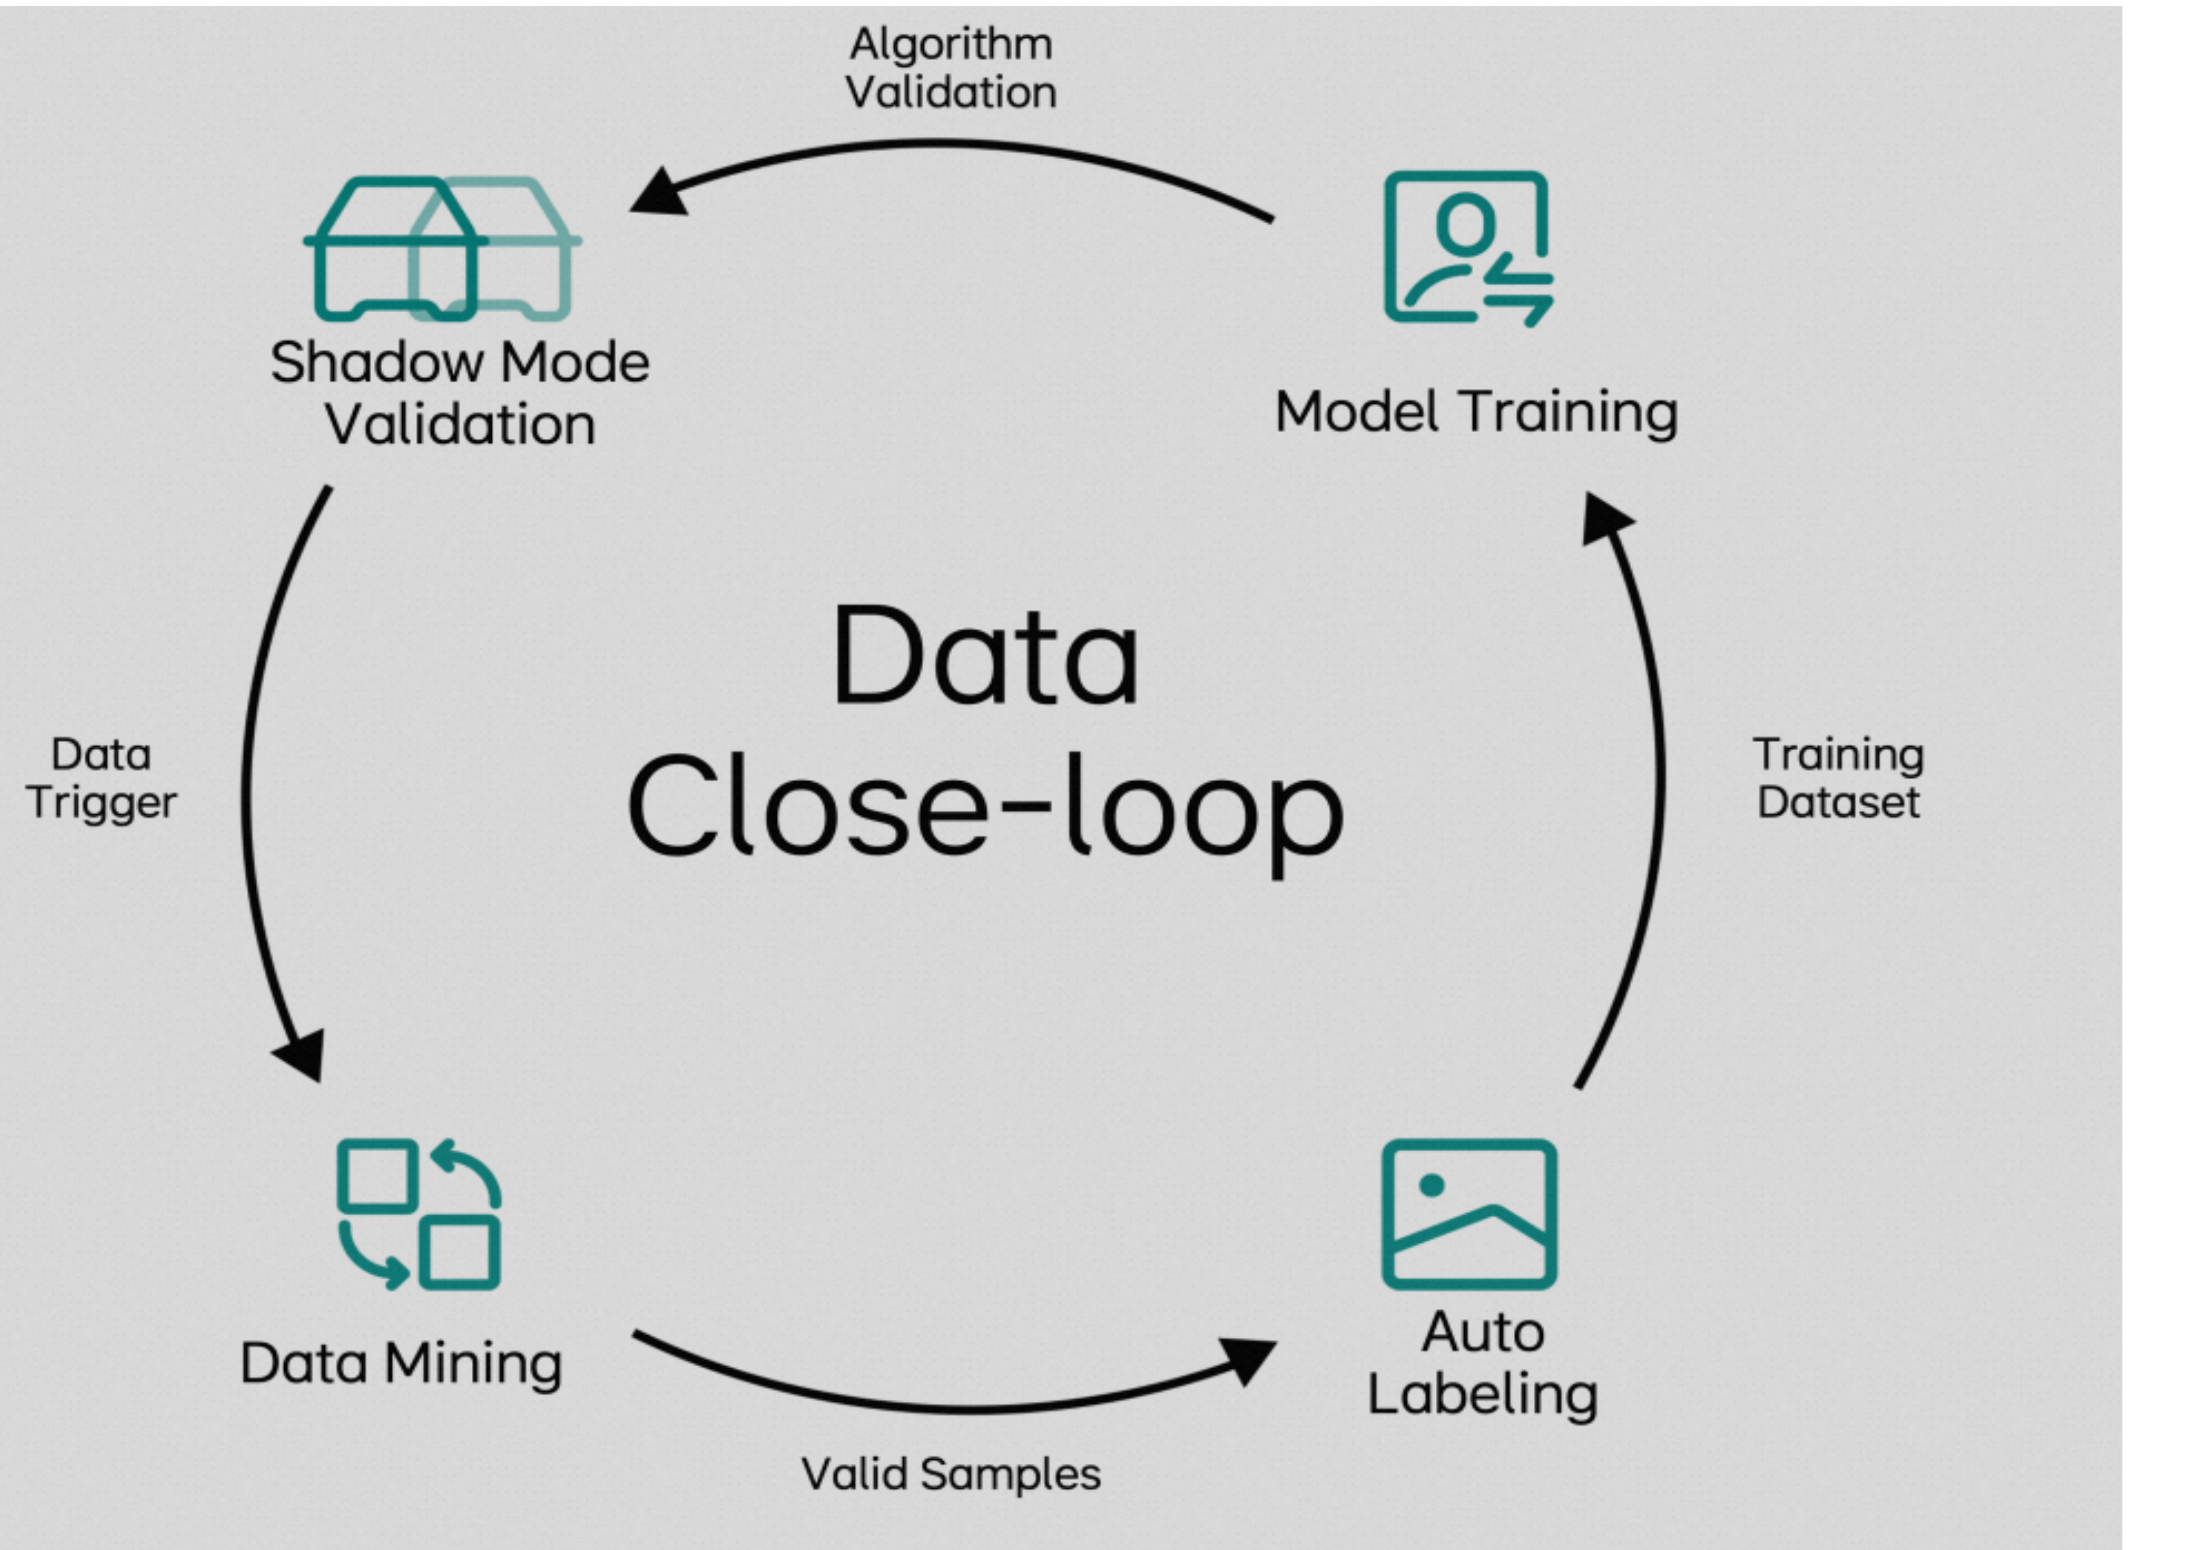
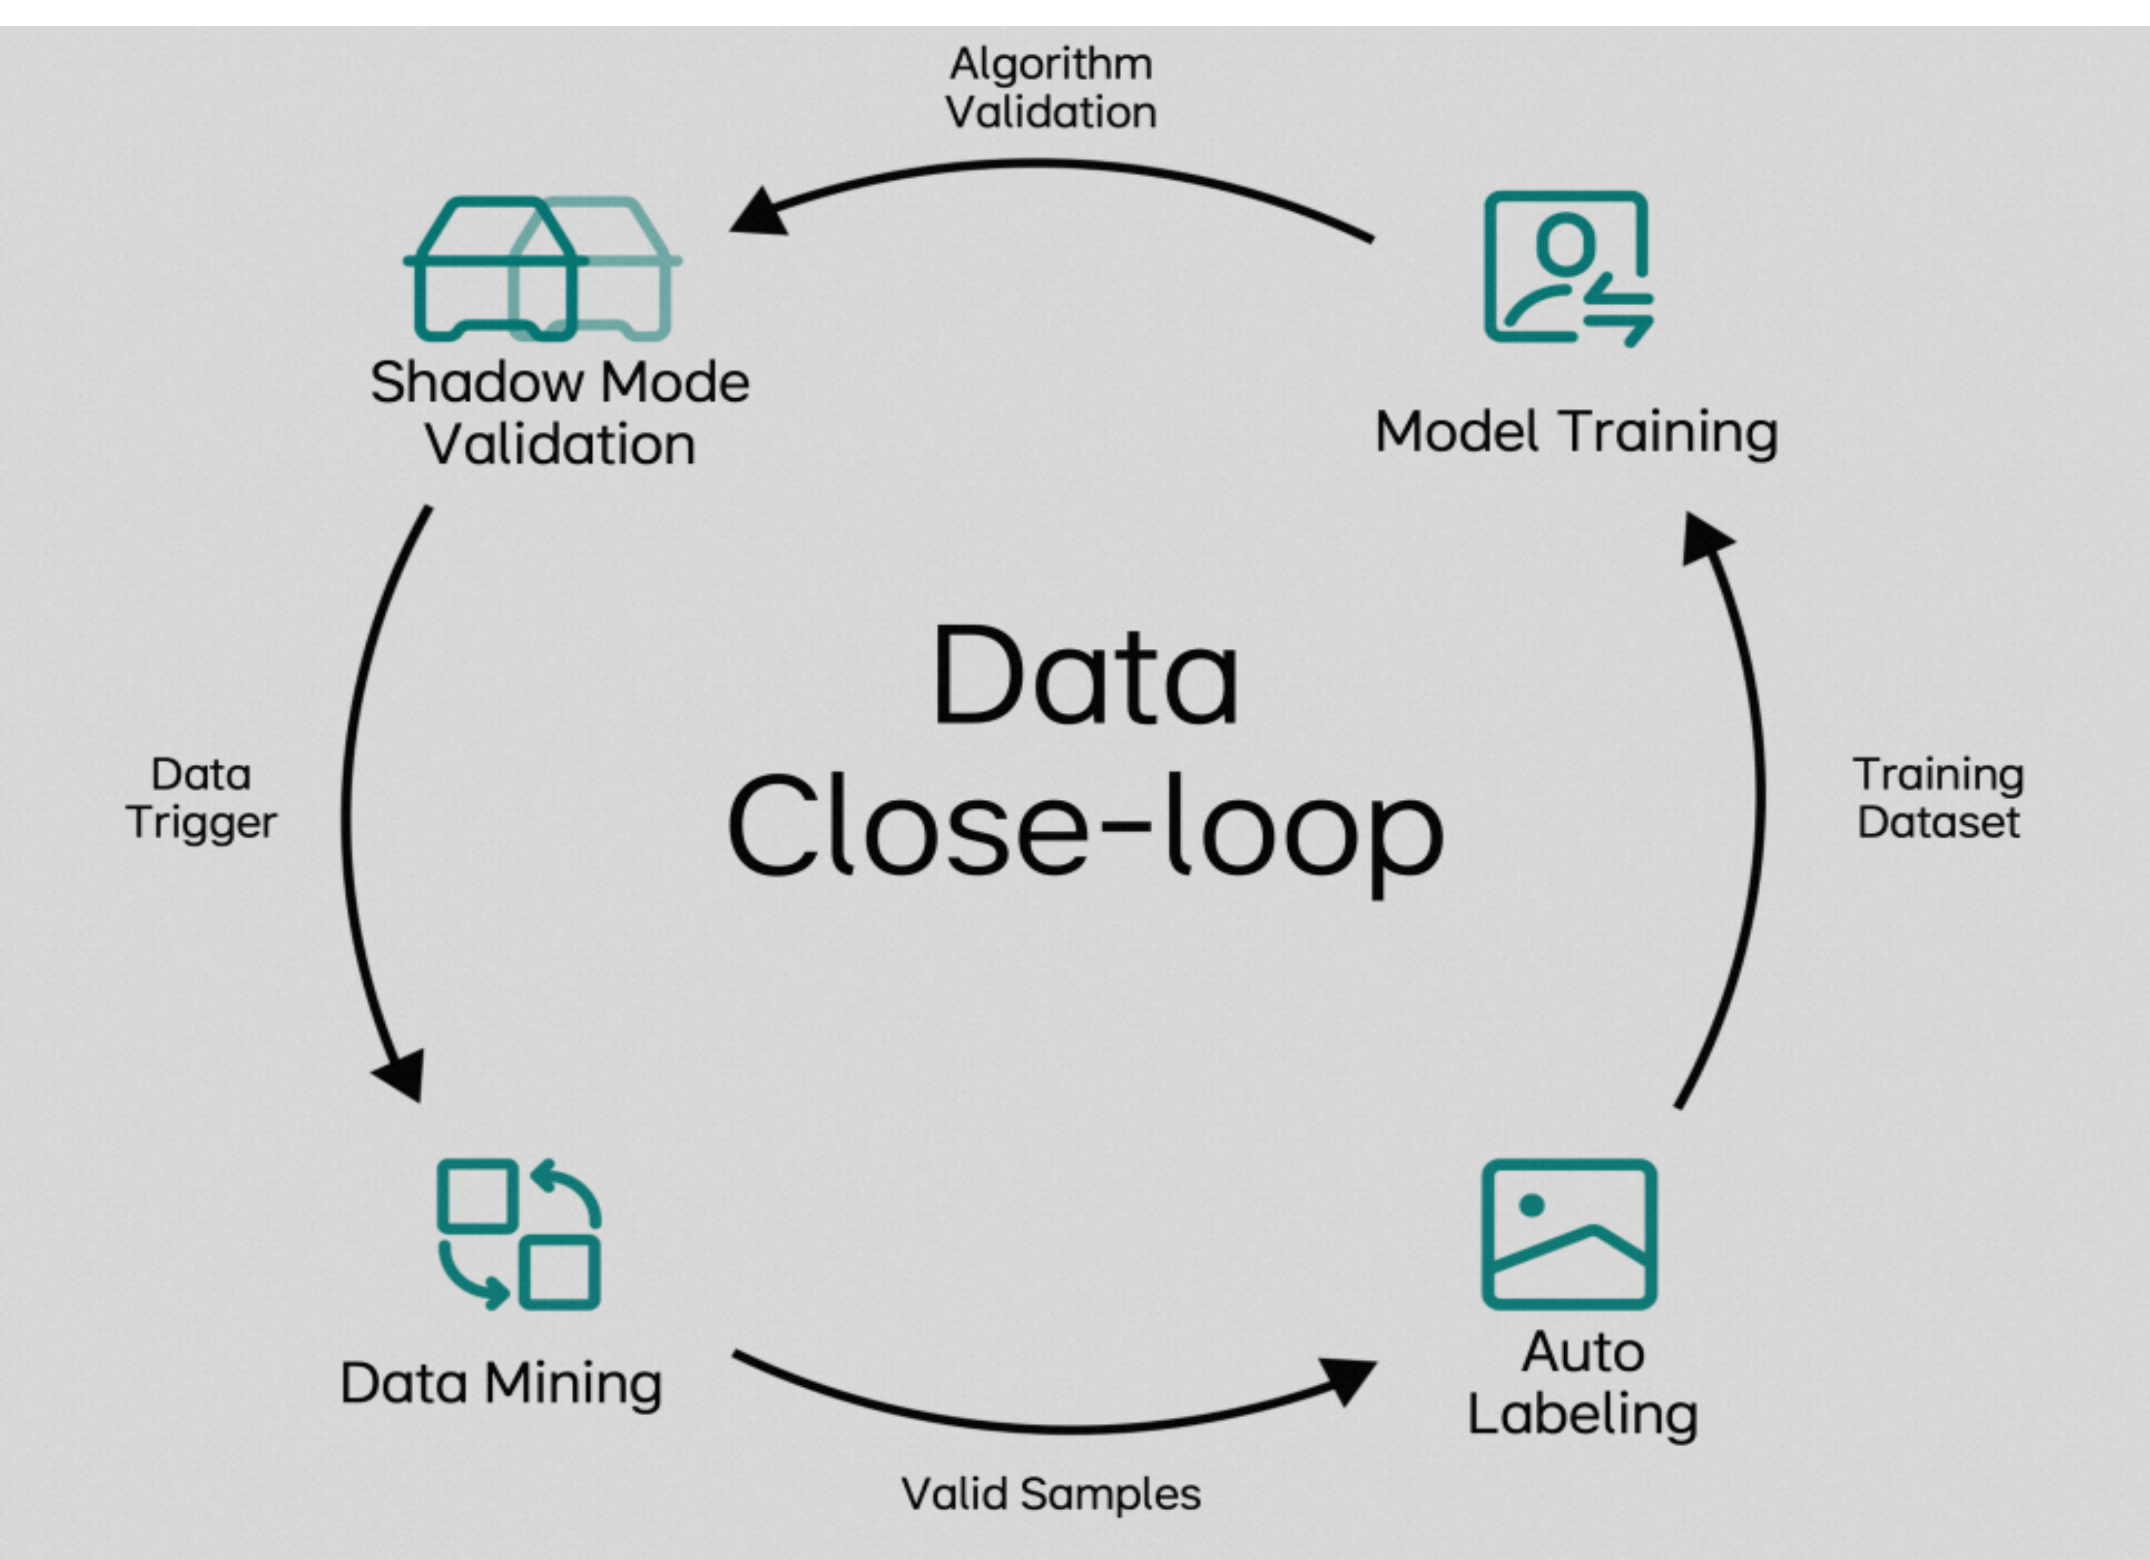
Sync strategy, sysarch, closeloop fix

diff --git a/index.html b/index.html
@@ -611,6 +611,8 @@ body::after {
   .player-cards { grid-template-columns: 1fr; }
   .phase-cards { grid-template-columns: 1fr !important; }
   .closeloop-row { grid-template-columns: 1fr !important; }
+  .strategy-layout { grid-template-columns: 1fr !important; }
+  .sys-flow-bar { flex-direction: column; }
 }
 
 /* ===== Mission Block ===== */
@@ -1369,10 +1371,31 @@ body::after {
   <div class="section-label reveal">06 // Strategy</div>
   <h2 class="section-title reveal">打法：快速打通"场景-数据-模型"正向迭代闭环</h2>
 
-  <div class="slide-original reveal">
-    <img src="images/page-07-cropped.png" alt="场景-数据-模型正向迭代闭环架构图">
+  <div class="strategy-layout reveal" style="display:grid;grid-template-columns:1.2fr 1fr;gap:2rem;align-items:start;">
+    <div class="slide-original" style="margin:0;">
+      <img src="images/page-07-cropped.png" alt="场景-数据-模型正向迭代闭环架构图">
+    </div>
+    <div style="display:flex;flex-direction:column;gap:1rem;">
+      <div class="card" style="position:relative;overflow:hidden;padding:1.2rem 1.5rem;">
+        <div style="position:absolute;left:0;top:0;bottom:0;width:3px;background:var(--cyan);"></div>
+        <div style="font-family:var(--font-mono);font-size:0.65rem;color:var(--cyan);letter-spacing:2px;margin-bottom:0.4rem;">SCENARIO</div>
+        <h4 style="font-size:0.95rem;color:var(--text-bright);margin-bottom:0.4rem;">场景（集团资源）</h4>
+        <div style="font-size:0.8rem;color:var(--text-dim);line-height:1.7;">场景理解与定义 &middot; 数采运营与管理<br>自有场景 / 合作场景 / 政府合作数采场</div>
+      </div>
+      <div class="card" style="position:relative;overflow:hidden;padding:1.2rem 1.5rem;">
+        <div style="position:absolute;left:0;top:0;bottom:0;width:3px;background:linear-gradient(to bottom,var(--cyan),var(--amber));"></div>
+        <div style="font-family:var(--font-mono);font-size:0.65rem;color:var(--amber);letter-spacing:2px;margin-bottom:0.4rem;">DATA</div>
+        <h4 style="font-size:0.95rem;color:var(--text-bright);margin-bottom:0.4rem;">数据（自建新团队）</h4>
+        <div style="font-size:0.8rem;color:var(--text-dim);line-height:1.7;">数据采集 &middot; 数据合成 &middot; 数据处理<br>硬件终端 / 云端大模型 / 世界模型</div>
+      </div>
+      <div class="card" style="position:relative;overflow:hidden;padding:1.2rem 1.5rem;">
+        <div style="position:absolute;left:0;top:0;bottom:0;width:3px;background:var(--amber);"></div>
+        <div style="font-family:var(--font-mono);font-size:0.65rem;color:var(--amber);letter-spacing:2px;margin-bottom:0.4rem;">MODEL</div>
+        <h4 style="font-size:0.95rem;color:var(--text-bright);margin-bottom:0.4rem;">模型（被投X公司）</h4>
+        <div style="font-size:0.8rem;color:var(--text-dim);line-height:1.7;">模型评测体系定义 &middot; 研发迭代与管理<br>World Modeling / Action FineTuning / Physical RL</div>
+      </div>
+    </div>
   </div>
-
 </section>
 
 <!-- ==================== 07 SYSTEM ARCHITECTURE ==================== -->
@@ -1385,6 +1408,37 @@ body::after {
     <img src="images/page-08-cropped.png" alt="系统架构图">
   </div>
 
+  <div style="display:flex;gap:2px;margin-top:2rem;overflow-x:auto;padding-bottom:0.5rem;" class="sys-flow-bar reveal">
+    <div class="card" style="flex:1;min-width:160px;text-align:center;border-radius:4px 0 0 4px;padding:1.2rem 1rem;">
+      <div style="font-family:var(--font-mono);font-size:0.65rem;color:var(--cyan);letter-spacing:1px;margin-bottom:0.5rem;">COLLECT</div>
+      <h4 style="font-size:0.88rem;color:var(--text-bright);margin-bottom:0.4rem;">Real数据采集</h4>
+      <div style="font-size:0.72rem;color:var(--text-dim);line-height:1.6;">传感器融合 &middot; 多模态同步<br>任务管理 &middot; 硬件系统</div>
+    </div>
+    <div style="display:flex;align-items:center;color:var(--cyan-dim);font-family:var(--font-mono);padding:0 2px;flex-shrink:0;">&rarr;</div>
+    <div class="card" style="flex:1;min-width:160px;text-align:center;padding:1.2rem 1rem;">
+      <div style="font-family:var(--font-mono);font-size:0.65rem;color:var(--cyan);letter-spacing:1px;margin-bottom:0.5rem;">PLATFORM</div>
+      <h4 style="font-size:0.88rem;color:var(--text-bright);margin-bottom:0.4rem;">数据平台</h4>
+      <div style="font-size:0.72rem;color:var(--text-dim);line-height:1.6;">数据管线 &middot; 自动标注<br>大模型训练 &middot; 场景理解</div>
+    </div>
+    <div style="display:flex;align-items:center;color:var(--cyan-dim);font-family:var(--font-mono);padding:0 2px;flex-shrink:0;">&rarr;</div>
+    <div class="card" style="flex:1;min-width:140px;text-align:center;padding:1.2rem 1rem;">
+      <div style="font-family:var(--font-mono);font-size:0.65rem;color:var(--amber);letter-spacing:1px;margin-bottom:0.5rem;">TRAIN</div>
+      <h4 style="font-size:0.88rem;color:var(--text-bright);margin-bottom:0.4rem;">模型训练</h4>
+      <div style="font-size:0.72rem;color:var(--text-dim);line-height:1.6;">VLA &middot; WAM<br>模型公司协同</div>
+    </div>
+    <div style="display:flex;align-items:center;color:var(--cyan-dim);font-family:var(--font-mono);padding:0 2px;flex-shrink:0;">&harr;</div>
+    <div class="card" style="flex:1;min-width:160px;text-align:center;padding:1.2rem 1rem;">
+      <div style="font-family:var(--font-mono);font-size:0.65rem;color:var(--amber);letter-spacing:1px;margin-bottom:0.5rem;">SIMULATE</div>
+      <h4 style="font-size:0.88rem;color:var(--text-bright);margin-bottom:0.4rem;">Sim仿真 + 世界模型</h4>
+      <div style="font-size:0.72rem;color:var(--text-dim);line-height:1.6;">物理仿真 &middot; 数据合成<br>重建 / 场景 / 物理因果</div>
+    </div>
+    <div style="display:flex;align-items:center;color:var(--cyan-dim);font-family:var(--font-mono);padding:0 2px;flex-shrink:0;">&rarr;</div>
+    <div class="card" style="flex:0.6;min-width:100px;text-align:center;border-radius:0 4px 4px 0;padding:1.2rem 0.8rem;border-left-color:var(--amber);">
+      <div style="font-family:var(--font-mono);font-size:0.65rem;color:var(--amber);letter-spacing:1px;margin-bottom:0.5rem;">DEPLOY</div>
+      <h4 style="font-size:0.88rem;color:var(--text-bright);margin-bottom:0.4rem;">Real应用</h4>
+      <div style="font-size:0.72rem;color:var(--text-dim);line-height:1.6;">部署 &middot; 验证</div>
+    </div>
+  </div>
 </section>
 
 <!-- ==================== 08 TEAM ==================== -->